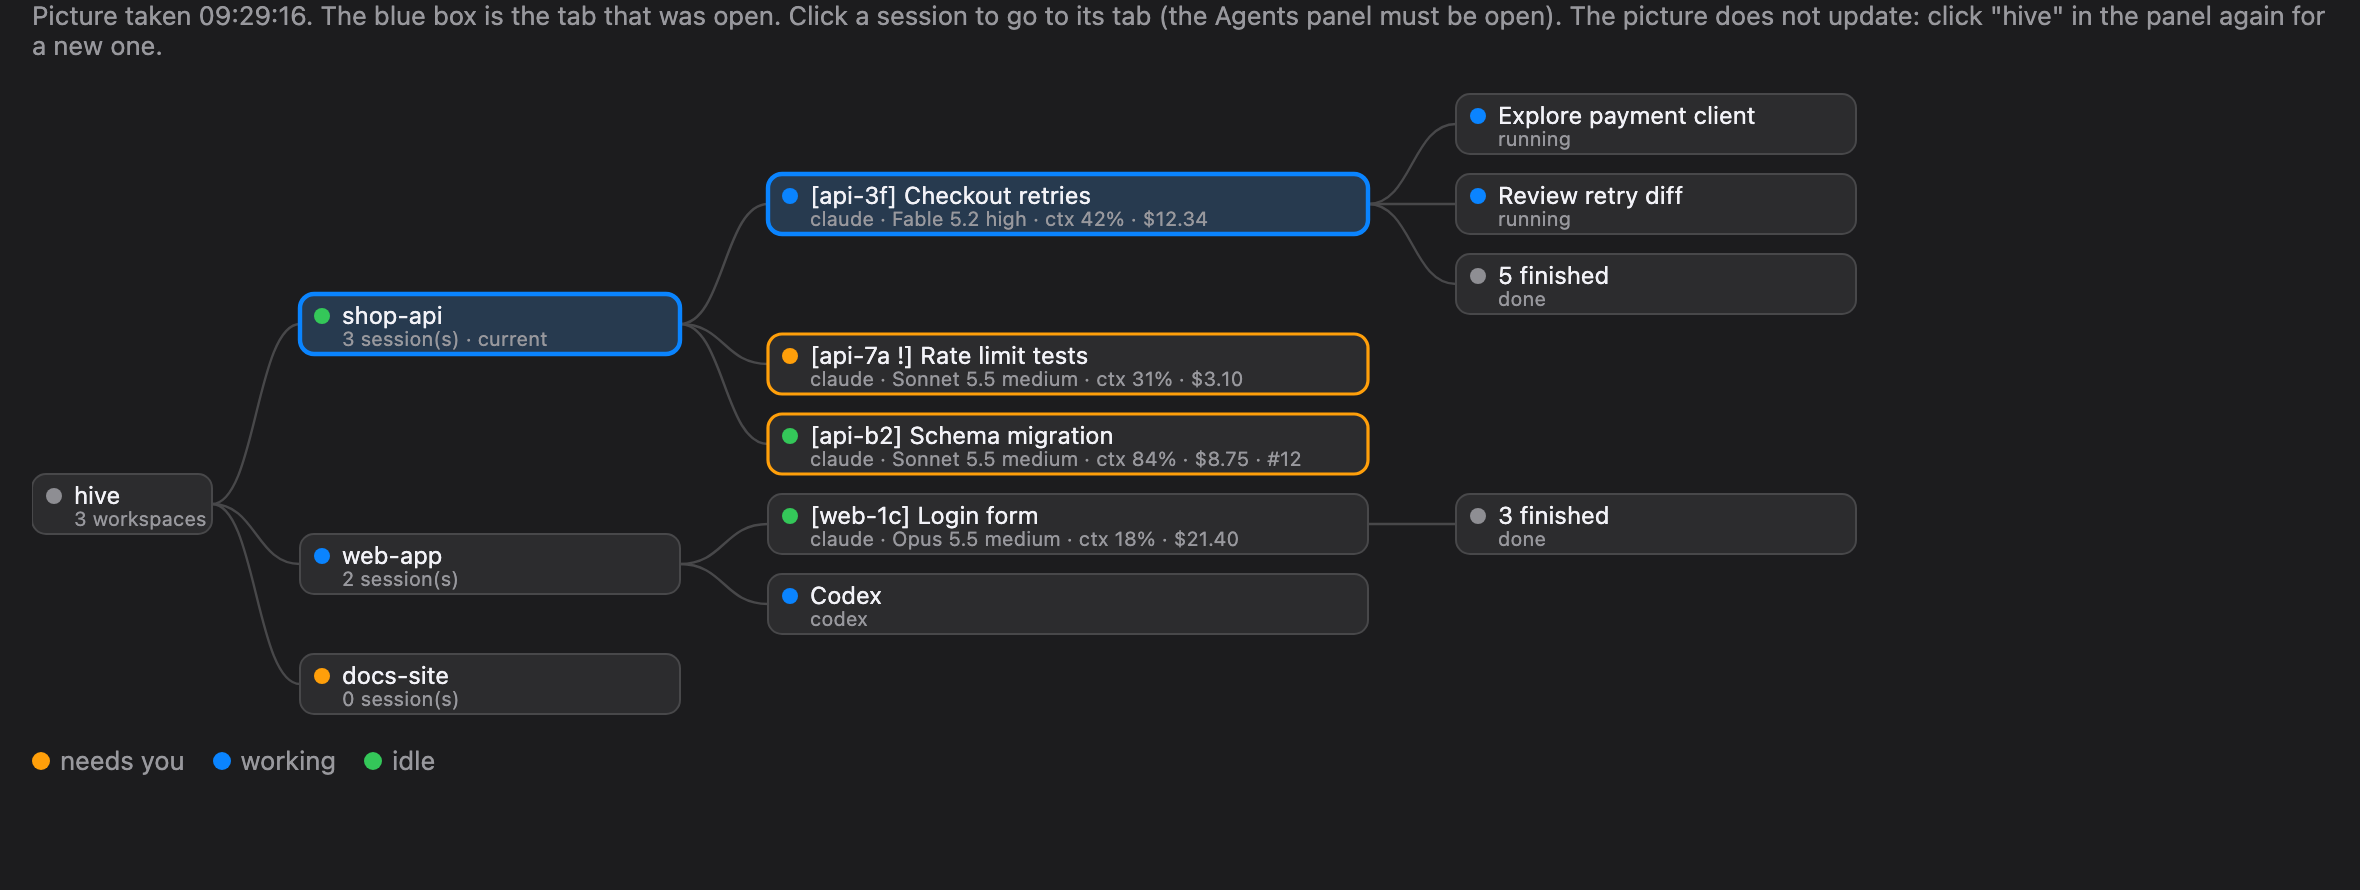
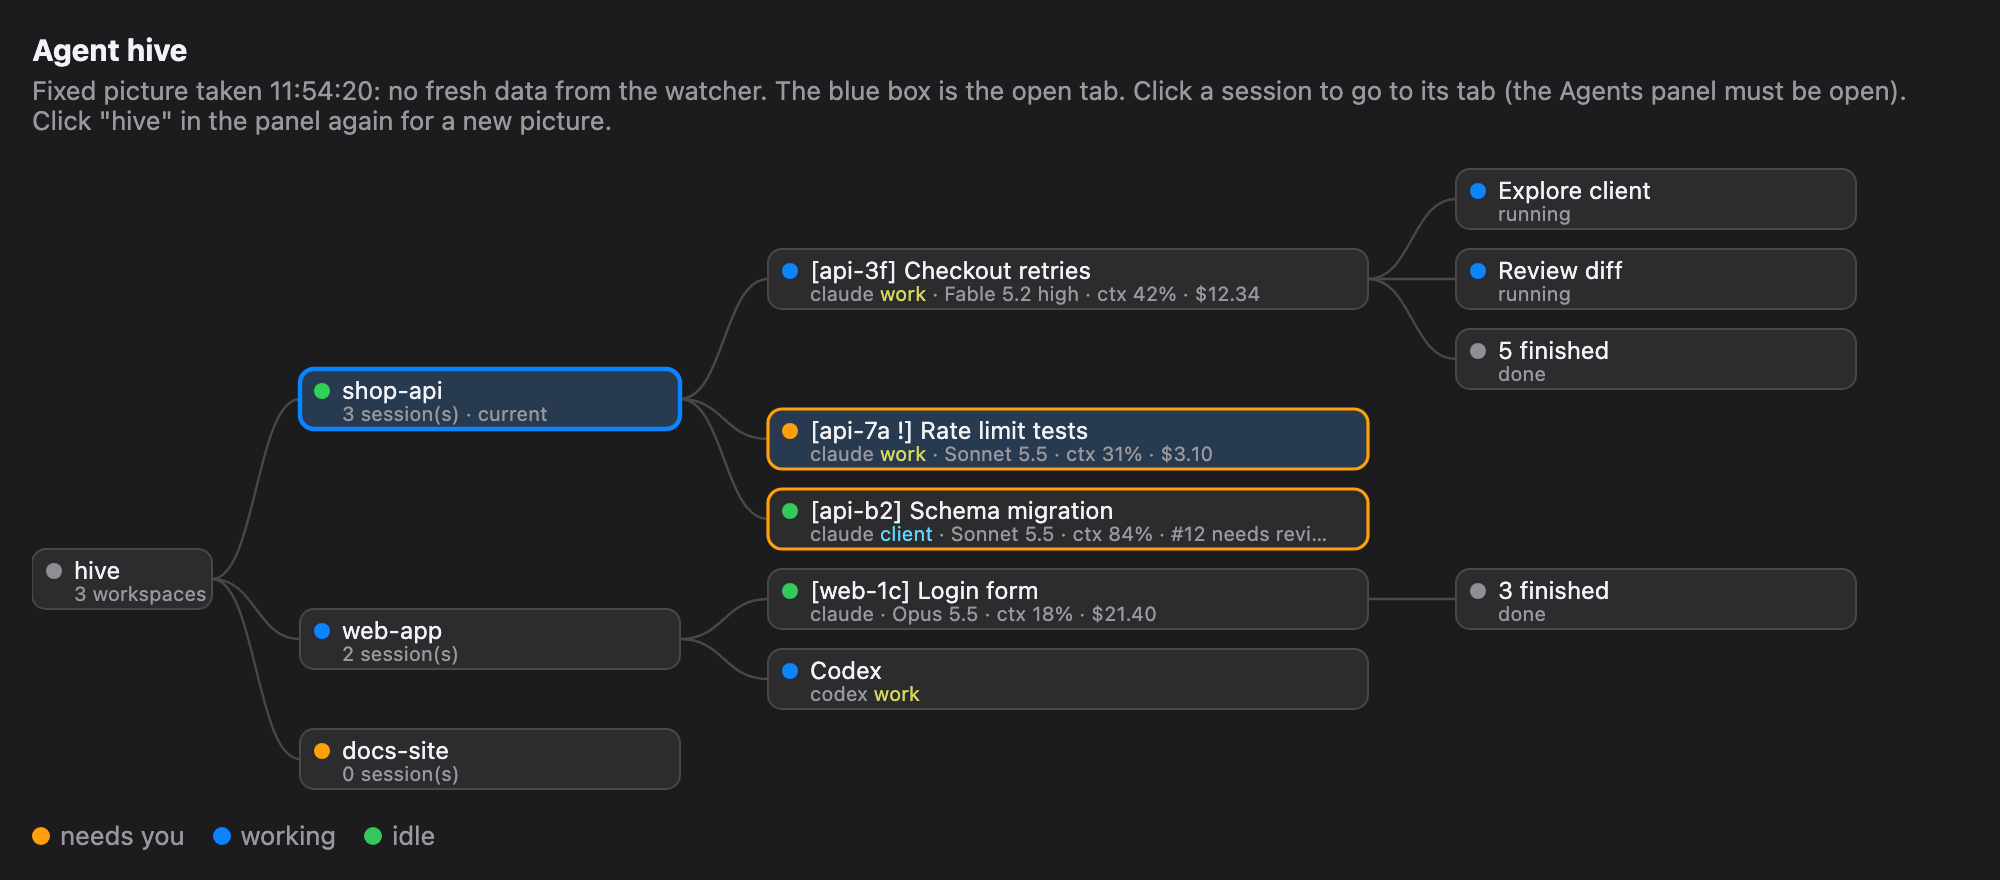
Colour the account name on the hive page and redraw the panel and hive pictures
Claude-Session: https://claude.ai/code/session_01HXnduEjBtpWPBqvEBsxN4Z

diff --git a/examples/panel.html b/examples/panel.html
@@ -1,0 +1,56 @@
+<!doctype html>
+<html lang="en"><head><meta charset="utf-8"><title>Agents panel, sample names</title>
+<style>
+  html, body { margin: 0; background: #2b2b2b; }
+  body { width: 420px; padding: 16px 14px 20px; box-sizing: border-box; font: 13px -apple-system, "Helvetica Neue", Arial, sans-serif; color: #e4e4e4; }
+  .mono { font-family: ui-monospace, Menlo, monospace; }
+  .dim { color: #8a8a8a; }
+  .head { display: flex; align-items: baseline; justify-content: space-between; }
+  h1 { font-size: 15px; margin: 0; color: #f2f2f2; }
+  .bar { display: flex; align-items: center; gap: 4px; margin-top: 10px; font-weight: 600; font-size: 12px; color: #9a9a9a; }
+  .bar span { padding: 3px 8px; border-radius: 6px; }
+  .bar .on { background: #474747; color: #fff; }
+  .bar .sp { flex: 1; padding: 0; }
+  .bar .link { color: #3b8cff; }
+  .hint { font-size: 10.5px; color: #7a7a7a; margin: 6px 6px 0; }
+  .search { margin: 10px 4px; color: #8f8f8f; }
+  .band { display: flex; align-items: center; gap: 7px; background: #3a3a3a; border-radius: 7px; padding: 6px 8px; margin-top: 6px; font-weight: 700; }
+  .band i { width: 4px; height: 16px; border-radius: 2px; display: inline-block; }
+  .band small { font: 10px ui-monospace, Menlo, monospace; color: #8a8a8a; font-weight: 400; }
+  .band .sp { flex: 1; }
+  .row { display: flex; align-items: center; gap: 6px; padding: 4px 6px 0 12px; border-left: 2px solid; margin-left: 9px; }
+  .row b { font-weight: 600; white-space: nowrap; }
+  .row .sp { flex: 1; }
+  .row.on { background: #444; border-radius: 0 7px 7px 0; }
+  .dot { width: 6px; height: 6px; border-radius: 50%; display: inline-block; flex: none; }
+  .tag { font: 9.5px ui-monospace, Menlo, monospace; color: #8a8a8a; white-space: nowrap; }
+  .time { font: 10px ui-monospace, Menlo, monospace; color: #8a8a8a; white-space: nowrap; }
+  .line2 { padding: 1px 6px 4px 26px; border-left: 2px solid; margin-left: 9px; font-size: 11px; color: #a8a8a8; }
+  .or { color: #ff9f0a; } .red { color: #ff453a; }
+</style></head>
+<body>
+  <div class="head"><h1>Agents</h1><span class="mono dim" style="font-size:10.5px">1 need you · ● 2 working · 3 idle · $46</span></div>
+  <div class="bar"><span>Here</span><span class="on">All</span><span>Limits</span><span class="sp"></span><span class="link">hive ↗</span><span>Ended</span></div>
+  <div class="bar"><span>! 1</span><span>▶ 2</span><span>80% 1</span><span>PR 1</span><span style="opacity:.45">1h+ 0</span><span class="sp"></span><span>✕</span><span>↑</span></div>
+  <div class="bar"><span>client 1</span><span>personal 2</span><span>work 3</span><span class="sp"></span></div>
+  <div class="search">Search agents</div>
+
+  <div class="band or"><i style="background:#ff9f0a"></i>NEEDS YOU <small>1</small></div>
+  <div class="row" style="border-color:#30d15888"><span class="dot" style="background:#ff9f0a"></span><b>[api-7a !] Rate limit tests</b><span class="tag">claude<span style="color:#d7d75f"> · work</span></span><span class="sp"></span><span class="time">2m 07s</span><span class="dim">›</span></div>
+  <div class="line2" style="border-color:#30d15888"><span class="or">Needs input · permission prompt</span></div>
+
+  <div class="band"><i style="background:#30d158"></i>shop-api <small>3</small><small>$24</small><span class="sp"></span><small style="color:#3b8cff;font-weight:600">1 new</small></div>
+  <div class="row" style="border-color:#30d15888"><span class="dot" style="background:#0a84ff"></span><b>[api-3f] Checkout retries</b><span class="tag">claude<span style="color:#d7d75f"> · work</span></span><span class="sp"></span><span class="time">48s</span><span class="dim">›</span></div>
+  <div class="line2" style="border-color:#30d15888">Working · Fable 5.2 high · ctx 42% · $12.34 · <span style="color:#3b8cff">▸ 2 sub running</span></div>
+  <div class="row on" style="border-color:#30d15888"><span class="dot" style="background:#ff9f0a"></span><b>[api-7a !] Rate limit tests</b><span class="tag">claude<span style="color:#d7d75f"> · work</span></span><span class="sp"></span><span class="time">2m 07s</span><span class="dim">›</span></div>
+  <div class="line2" style="border-color:#30d15888"><span class="or">Needs input · permission prompt</span></div>
+  <div class="row" style="border-color:#30d15888"><span class="dot" style="background:#30d158"></span><b>[api-b2] Schema migration</b><span class="tag">claude<span style="color:#5fd7ff"> · client</span><span class="or"> ≠ work</span></span><span class="sp"></span><span class="tag or">#12 needs grant</span><span class="tag red">ctx 84%</span><span class="time">9m ago</span><span class="dim">›</span></div>
+
+  <div class="band"><i style="background:#0a84ff"></i>web-app <small>2</small><small>$21</small><span class="sp"></span></div>
+  <div class="row" style="border-color:#0a84ff88"><span class="dot" style="background:#30d158"></span><b>[web-1c] Login form</b><span class="tag">claude</span><span class="sp"></span><span class="tag" style="color:#64d2ff">cold 198K</span><span class="time">31m ago</span><span class="dim">⌄</span></div>
+  <div class="line2 mono" style="border-color:#0a84ff88;font-size:10px"><span class="dim">account&nbsp;</span> personal (primary)<br><span class="dim">model&nbsp;&nbsp;&nbsp;</span> Opus 5.5 medium<br><span class="dim">context&nbsp;</span> 18%<br><span class="dim">cost&nbsp;&nbsp;&nbsp;&nbsp;</span> $21.40</div>
+  <div class="row" style="border-color:#0a84ff88"><span class="dot" style="background:#0a84ff"></span><b>Codex</b><span class="tag">codex<span style="color:#d7d75f"> · work</span></span><span class="sp"></span><span class="time">1m 12s</span><span class="dim">›</span></div>
+  <div class="line2" style="border-color:#0a84ff88">Working</div>
+
+  <div class="band"><i style="background:#ff9f0a"></i>docs-site<span class="sp"></span></div>
+</body></html>

diff --git a/scripts/hive.html b/scripts/hive.html
@@ -43,6 +43,13 @@ const el = (name, attrs, text) => {
   if (text !== undefined) node.textContent = String(text);
   return node;
 };
+// One fixed colour per account name: the same list and the same sum as the Agents panel and the status line.
+const ACCT_COLORS = ["#5fd7ff", "#af87ff", "#ff87d7", "#00d7af", "#d7d75f", "#5fafff"];
+const acctColor = (name) => {
+  let h = 0;
+  for (const ch of String(name)) h = (h * 31 + ch.charCodeAt(0)) % 1000003;
+  return ACCT_COLORS[h % ACCT_COLORS.length];
+};
 const cut = (text, n) => { const s = String(text ?? ""); return s.length > n ? s.slice(0, n - 1) + "…" : s; };
 
 // Only known keys with the expected type pass. The link and the live file both go through here.
@@ -135,6 +142,8 @@ function draw(data) {
     kids: (w.a || []).map((a) => ({
       title: cut(a.n, 40), go: /^[0-9A-Fa-f-]{1,40}$/.test(a.i || "") && /^[0-9A-Fa-f-]{1,40}$/.test(a.w || "") ? a.w + ":" + a.i : "",
       sub: cut([a.u ? a.k + " " + a.u : a.k, a.m, a.x != null ? "ctx " + a.x + "%" : "", a.c, a.p].filter(Boolean).join(" · "), 52),
+      // With an account, the same line in three parts, so the account name can carry its colour.
+      kind: a.k, acct: a.u, rest: cut([a.m, a.x != null ? "ctx " + a.x + "%" : "", a.c, a.p].filter(Boolean).join(" · "), Math.max(0, 50 - (a.k + a.u).length)),
       here: a.f === true, color: (STATUS[a.s] || ["#8E8E93"])[0], hot: a.s === "needs_input" || a.x >= 80,
       kids: (a.ch || []).map((c) => ({ title: cut(c.n, 28), sub: c.r ? "running" : "done", color: c.r ? "#0A84FF" : "#8E8E93" })),
     })),
@@ -152,7 +161,13 @@ function draw(data) {
     g.appendChild(el("rect", { class: "box", x, y: n.y - 15, width: w, height: 30, rx: 7, style: n.hot ? "stroke:#FF9F0A;stroke-width:1.6" : "" }));
     g.appendChild(el("circle", { cx: x + 11, cy: n.y - 4, r: 4, fill: n.color }));
     g.appendChild(el("text", { x: x + 21, y: n.y }, n.title));
-    g.appendChild(el("text", { class: "sub", x: x + 21, y: n.y + 11 }, n.sub));
+    const sub = el("text", { class: "sub", x: x + 21, y: n.y + 11 }, n.acct ? "" : n.sub);
+    if (n.acct) {
+      sub.appendChild(el("tspan", {}, n.kind + " "));
+      sub.appendChild(el("tspan", { fill: acctColor(n.acct) }, n.acct));
+      sub.appendChild(el("tspan", {}, n.rest ? " · " + n.rest : ""));
+    }
+    g.appendChild(sub);
     if (n.go) {
       // The page cannot call cmux. It puts the request in its title; the Agents panel reads tab titles and
       // focuses the tab. The title returns after 5 seconds.

diff --git a/README.md b/README.md
@@ -38,11 +38,11 @@ Status colours: orange = waits for you, blue = working, green = idle, grey = end
 
 ## Examples
 
-The pictures use sample names. The panel picture is a drawing of the layout; it does not show the chip counts and the cost per workspace. The hive picture is a render of `scripts/hive.html` with sample data. It was made before the page learned to update, so its top line still says that the picture does not update.
+The pictures use sample names. The panel picture is a drawing of the layout (`examples/panel.html`), with the account chips, the account colours and the wrong-account mark. The hive picture is a render of `scripts/hive.html` with sample data. It was opened without the watcher, so its top line says that the picture is fixed; with the watcher the page updates every 15 seconds.
 
-![Drawing of the Agents panel: counts and cost, filter chips, a NEEDS YOU block, and one band per workspace with its session rows](examples/panel.svg)
+![Drawing of the Agents panel: counts and cost, filter chips, account chips, a NEEDS YOU block, and one band per workspace with its session rows](examples/panel.png)
 
-![Render of the hive page: workspaces, their sessions, and subagents, with a blue box on the open tab](examples/hive.png)
+![Render of the hive page: workspaces, their sessions, and subagents, with a blue box on the open tab and the account name in its colour](examples/hive.png)
 
 The `Limits` view with several accounts: one line per tool and account, red from 80%. A drawing with sample names, made from `examples/limits.html`.
 
